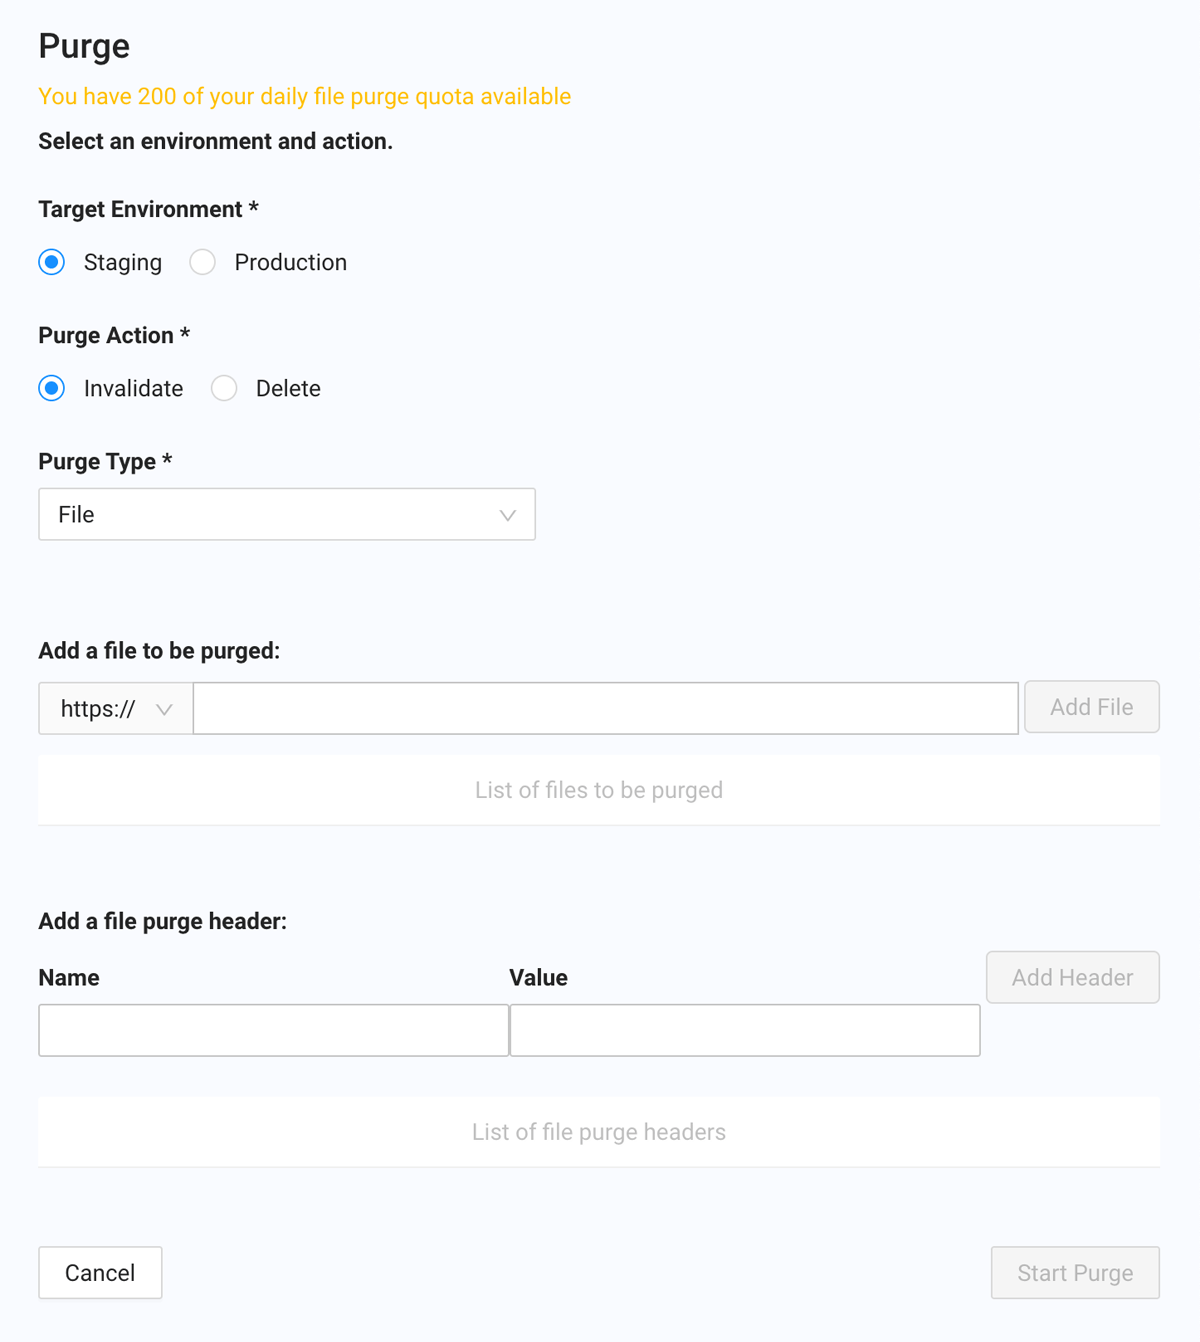
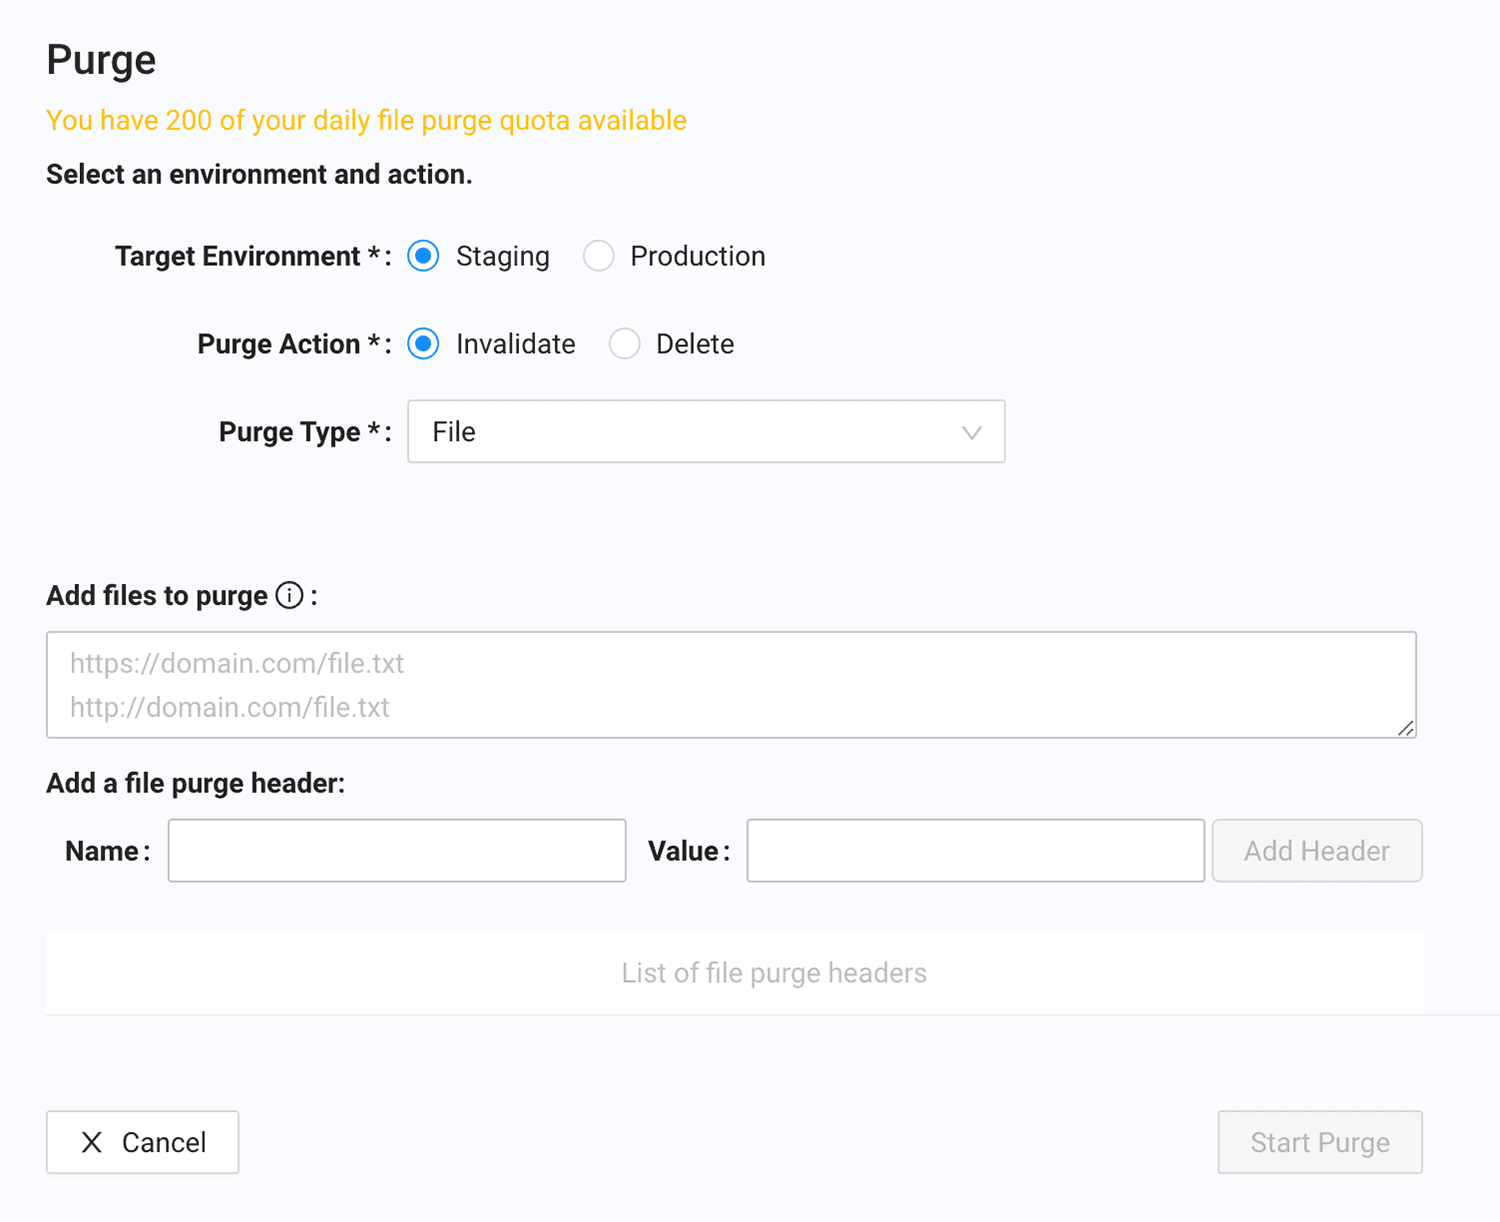
Release26Nov2021 changes

diff --git a/en/docs/portal/content-management.md b/en/docs/portal/content-management.md
@@ -29,10 +29,10 @@ If the content on your origin web server has changed, request a purge to have CD
 |----------|---------------|
 | Target Environment | Select whether the purge will occur in the staging or production environment. Default is staging.|
 | Purge Action | Select whether you want the content deleted or invalidated.  <br><ul><li><strong>Delete</strong> = removes the object from the cache of edge servers. The next time the edge server receives a request for the removed content, it retrieves the current version from your origin server. (*default*)</li><li><strong>Invalidate</strong> = this is the default setting and marks the cached content as invalid. However, the content is not removed from cache and objects are not retrieved from your origin unless they are newer than the cached versions. With this setting, CDN Pro edge servers can continue serving stale content to your end users if the origin cannot be reached.</li></ul> |
-| Purge Type | Select whether you want to purge a file or a directory. Default is file.|
-| Add a file to be purged | If **Purge Type** is set to **File**, select **https://** (*default*) or **http://** from the drop-down list, enter the name of the file to be purged, and then click **Add File**. Repeat this step for each additional file you want to purge. If you decide not to purge one or more files that you added, click the **x** icon at the right side of the file name.|
-| Add a file purge header | If **Purge Type** is set to **File**, specify the name and value of the HTTP request header included in the cache key, and then click **Add Header**. Repeat this step for each additional request header you want to purge. If you decide not to purge one or more request headers that you added, click the **x** icon at the right side of the header name.|
-| Add a directory to be purged | If **Purge Type** is set to **Directory**, select **https://** (*default*) or **http://** from the drop-down list, enter the name of the directory to be purged, and then click **Add Directory**. Note that subdirectories of the directory will also be purged. Repeat this step for each additional directory you want to purge. If you decide not to purge one or more directories that you added, click the **x** icon at the right side of the directory name. </br><br><strong>Note:</strong> CDN Pro also supports purging based on URL prefixes. For more information, see Examples of Directory Purging below.</br>|
+| Purge Type | Select whether you want to purge a file or a wildcard. Default is file. <br><br><strong>Note:</strong> If the file has multiple variations due to a custom cache key, select **Wildcard**.</br>|
+| Add files to purge | If **Purge Type** is set to **File**, enter the complete URL of the file to be purged and press Enter. Repeat this step for each additional file you want to purge. If you decide not to purge a file, delete it from this field.|
+| Add a file purge header | If **Purge Type** is set to **File**, specify the name and value of the HTTP request header included in the cache key, and then click **Add Header**. Repeat this step for each additional request header you want to purge. If you decide not to purge a request header, click the **x** icon at the right side of the header name.|
+| Add directories to purge | If **Purge Type** is set to **Wildcard**, enter the complete URL of the directory you want to purge, including optional wildcards, and press Enter. Repeat this step for each additional directory you want to purge. If you decide not to purge a directory, delete it from this field. </br><br><strong>Note:</strong> Observe the following guidelines:</br><ul><li>Purging a directory also purges its subdirectories.</br></ul></li><ul><li>CDN Pro supports purging based on URL prefixes. For more information, see Examples of Directory Purging below.</ul></li>|
 
 4. Click **Start Purge**.
 
@@ -40,9 +40,12 @@ If the content on your origin web server has changed, request a purge to have CD
 
 ## Examples of Directory Purging
 
-CDN Pro allows you to purge directories by entering URLs in the <strong>Add a directory to be purged</strong> field. The following table shows examples of purging directories.
+CDN Pro allows you to purge directories by entering URLs in the <strong>Add directories to purge</strong> field. The URLs you enter can include wildcards.
+<ul><li>Ending a subdirectory with a single asterisk <b>*</b> purges all files only.</ul></li><ul><li>Ending a directory with two asterisks purges all files and subdirectories.</ul></li><ul><li>Ending the URL with <b>*ext</b> purges all files that have a specific extension.</ul></li><ul><li>If the URL includes a percent character <b>%</b>, encode it to <b>%25</b>.</ul></li>
 
-**Note:** Files can have multiple variations if custom cache keys are used. In addition, a URL such as <code>/pictures/</code> or <code>/picture.jpg</code> can have many variations stored in the cache due to the Vary header or cache key customization. As a result, performing a folder purge without an asterisk will clear all variations except subdirectories or files. For this reason, folder purges of <code>/pictures/</code>, <code>/pictures/*</code>, and <code>/pictures/**</code> result in different behaviors.
+The following table shows examples of purging directories with and without using wildcards.
+
+**Note:** Files can have multiple variations if custom cache keys are used. In addition, a URL such as <code>/pictures/</code> or <code>/picture.jpg</code> can have many variations stored in the cache due to the Vary header or cache key customization. As a result, performing a folder purge without an asterisk clears all variations except subdirectories or files. For this reason, folder purges of <code>/pictures/</code>, <code>/pictures/*</code>, and <code>/pictures/**</code> result in different behaviors.
 
 |**Example**|**Description**|
 |----------|---------------|
